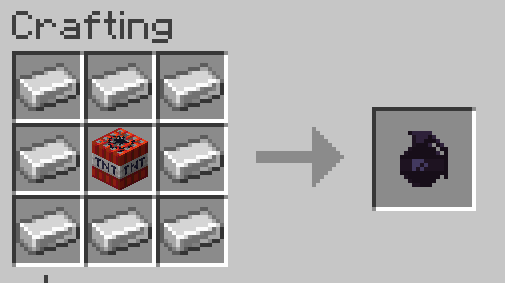
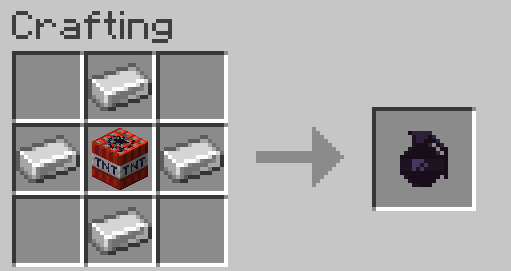
Added the smoke grenade - Changed recipe of normal grenade to require less iron - Limited grenade stack size to 16 - Made explosion slightly more powerful - Updated README.md

Changed region(s): [[0.0, 0.0295, 0.6832, 1.0], [0.7129, 0.3542, 0.9505, 0.797]]

diff --git a/src/main/java/xyz/telecter/justgrenades/entity/SmokeGrenadeEntity.java b/src/main/java/xyz/telecter/justgrenades/entity/SmokeGrenadeEntity.java
@@ -1,0 +1,70 @@
+package xyz.telecter.justgrenades.entity;
+
+import net.minecraft.block.BlockState;
+import net.minecraft.entity.Entity;
+import net.minecraft.entity.EntityType;
+import net.minecraft.entity.LivingEntity;
+import net.minecraft.entity.effect.StatusEffectInstance;
+import net.minecraft.entity.effect.StatusEffects;
+import net.minecraft.entity.player.PlayerEntity;
+import net.minecraft.entity.projectile.thrown.ThrownItemEntity;
+import net.minecraft.item.Item;
+import net.minecraft.particle.ParticleTypes;
+import net.minecraft.server.world.ServerWorld;
+import net.minecraft.util.math.Box;
+import net.minecraft.world.World;
+import xyz.telecter.justgrenades.items.ModItems;
+
+import java.util.List;
+
+public class SmokeGrenadeEntity extends GrenadeEntity {
+
+    public SmokeGrenadeEntity(EntityType<? extends GrenadeEntity> entityType, World world) {
+        super(entityType, world);
+    }
+
+    @Override
+    protected Item getDefaultItem() {
+        return ModItems.SMOKE_GRENADE;
+    }
+
+
+    private double getParticleRange() {
+        return (-0.5 + (int)(Math.random() * ((0.5 + 0.5) + 1)));
+    }
+
+    @Override
+    protected void onBlockCollision(BlockState state) {
+        World world = this.getEntityWorld();
+        Box box = new Box(this.getBlockPos()).expand(5);
+        List<PlayerEntity> entities = world.getEntitiesByClass(PlayerEntity.class, box, LivingEntity::isAlive);
+
+        entities.forEach(player -> player.addStatusEffect(new StatusEffectInstance(StatusEffects.BLINDNESS, 5*20, 0, false, false, false)));
+
+        if (world instanceof ServerWorld serverWorld) {
+            double radius = 5;
+            double step = 0.5;
+
+            double cx = this.getX();
+            double cy = this.getY();
+            double cz = this.getZ();
+            for (double x = -radius; x <= radius; x += step) {
+                for (double y = 0; y <= radius; y += step) {
+                    for (double z = -radius; z <= radius; z += step) {
+                        if (x*x + y*y + z*z <= radius * radius) {
+                            serverWorld.spawnParticles(
+                                    ParticleTypes.CAMPFIRE_SIGNAL_SMOKE,
+                                    cx + x + getParticleRange(), cy + y + getParticleRange(), cz + z + getParticleRange(),
+                                    1,
+                                    0, 0, 0,
+                                    0
+                            );
+                        }
+                    }
+                }
+            }
+            this.kill(serverWorld);
+        }
+
+        }
+}

diff --git a/src/main/java/xyz/telecter/justgrenades/items/GrenadeItem.java b/src/main/java/xyz/telecter/justgrenades/items/GrenadeItem.java
@@ -1,21 +1,33 @@
 package xyz.telecter.justgrenades.items;
 
+import net.minecraft.entity.EntityType;
 import net.minecraft.entity.player.PlayerEntity;
+import net.minecraft.entity.projectile.thrown.ThrownItemEntity;
 import net.minecraft.item.Item;
 import net.minecraft.util.ActionResult;
 import net.minecraft.util.Hand;
 import net.minecraft.world.World;
 import xyz.telecter.justgrenades.entity.GrenadeEntity;
 import xyz.telecter.justgrenades.entity.ModEntityType;
+import xyz.telecter.justgrenades.entity.SmokeGrenadeEntity;
 
 public class GrenadeItem extends Item {
-    public GrenadeItem(Settings settings) {
-        super(settings);
+    private final EntityType<? extends GrenadeEntity> entityType;
 
+    public GrenadeItem(EntityType<? extends GrenadeEntity> entityType, Settings settings) {
+        super(settings);
+        this.entityType = entityType;
     }
     @Override
     public ActionResult use(World world, PlayerEntity player, Hand hand) {
-        GrenadeEntity grenade = new GrenadeEntity(ModEntityType.GRENADE, world);
+        ThrownItemEntity grenade;
+
+        if (entityType.equals(ModEntityType.GRENADE)) {
+            grenade = new GrenadeEntity(ModEntityType.GRENADE, world);
+        } else {
+            grenade = new SmokeGrenadeEntity(ModEntityType.SMOKE_GRENADE, world);
+        }
+
         grenade.setPosition(player.getEyePos());
         grenade.setVelocity(player, player.getPitch(), player.getYaw(), 0.0F, 1.0F, 0F);
         world.spawnEntity(grenade);

diff --git a/src/main/java/xyz/telecter/justgrenades/entity/ModEntityType.java b/src/main/java/xyz/telecter/justgrenades/entity/ModEntityType.java
@@ -17,10 +17,17 @@ public class ModEntityType {
                         Registries.ENTITY_TYPE,
                         Identifier.of(JustGrenades.MOD_ID, "grenade"),
                         EntityType.Builder.create(GrenadeEntity::new, SpawnGroup.MISC)
-                                        .dimensions(0.25f, 0.25f) // dimensions in Minecraft units of the projectile
+                                        .dimensions(0.25f, 0.25f)
                                         .maxTrackingRange(4)
-                                        // necessary for all thrown projectiles (as it prevents it from breaking, lol)
                                         .build(RegistryKey.of(RegistryKeys.ENTITY_TYPE,
                                                         Identifier.of(JustGrenades.MOD_ID, "grenade"))));
+    public static final EntityType<SmokeGrenadeEntity> SMOKE_GRENADE = Registry.register(
+            Registries.ENTITY_TYPE,
+            Identifier.of(JustGrenades.MOD_ID, "smoke_grenade"),
+            EntityType.Builder.create(SmokeGrenadeEntity::new, SpawnGroup.MISC)
+                    .dimensions(0.25f, 0.25f)
+                    .maxTrackingRange(4)
+                    .build(RegistryKey.of(RegistryKeys.ENTITY_TYPE,
+                            Identifier.of(JustGrenades.MOD_ID, "smoke_grenade"))));
 
 }

diff --git a/src/main/java/xyz/telecter/justgrenades/items/ModItems.java b/src/main/java/xyz/telecter/justgrenades/items/ModItems.java
@@ -9,6 +9,7 @@ import net.minecraft.registry.RegistryKey;
 import net.minecraft.registry.RegistryKeys;
 import net.minecraft.util.Identifier;
 import xyz.telecter.justgrenades.JustGrenades;
+import xyz.telecter.justgrenades.entity.ModEntityType;
 
 import java.util.function.Function;
 
@@ -23,11 +24,14 @@ public class ModItems {
         Item item = factory.apply(settings.registryKey(itemKey));
         Registry.register(Registries.ITEM, itemKey, item);
         return item;
-
-
     }
 
-    public static final Item GRENADE = register("grenade", GrenadeItem::new, new Item.Settings()
+    public static final Item GRENADE = register("grenade", (settings) -> new GrenadeItem(ModEntityType.GRENADE, settings), new Item.Settings()
             .useCooldown(2)
+            .maxCount(16)
         );
+    public static final Item SMOKE_GRENADE = register("smoke_grenade", (settings) -> new GrenadeItem(ModEntityType.SMOKE_GRENADE, settings), new Item.Settings()
+            .useCooldown(2)
+            .maxCount(16)
+    );
 }

diff --git a/src/main/java/xyz/telecter/justgrenades/entity/GrenadeEntity.java b/src/main/java/xyz/telecter/justgrenades/entity/GrenadeEntity.java
@@ -21,12 +21,10 @@ public class GrenadeEntity extends ThrownItemEntity {
 
     @Override
     protected void onBlockCollision(BlockState state) {
-        super.onBlockCollision(state);
-        if (this.getWorld() instanceof ServerWorld serverWorld) {
-            serverWorld.createExplosion(this, this.getX(), this.getY(), this.getZ(), 3f, true,
+        if (this.getEntityWorld() instanceof ServerWorld serverWorld) {
+            serverWorld.createExplosion(this, this.getX(), this.getY()+1, this.getZ(), 3f, false,
                     World.ExplosionSourceType.TNT);
             this.kill(serverWorld);
-
         }
     }
 }

diff --git a/src/client/java/xyz/telecter/justgrenades/JustGrenadesClient.java b/src/client/java/xyz/telecter/justgrenades/JustGrenadesClient.java
@@ -10,5 +10,7 @@ public class JustGrenadesClient implements ClientModInitializer {
 	public void onInitializeClient() {
 		EntityRendererRegistry.register(
 				ModEntityType.GRENADE, FlyingItemEntityRenderer::new);
+        EntityRendererRegistry.register(
+                ModEntityType.SMOKE_GRENADE, FlyingItemEntityRenderer::new);
 	}
 }

diff --git a/README.md b/README.md
@@ -2,8 +2,14 @@
 
 A tiny, but explosive, Minecraft mod.
 
-This mod adds a craftable grenade that creates a sizeable explosion when thrown.
+This mod adds a few types of craftable grenades to Minecraft.
 
-![image](recipe.png)
+### Normal Grenade
+Creates an sizeable explosion wherever it lands.
+![recipe](recipe.png)
 
-Textures: https://mtk.itch.io/grenades-16x16
+### Smoke Grenade
+Creates a cloud of smoke and temporarily blinds anyone in the vicinity of wherever it lands.
+![recipe](recipe_smoke.png)
+
+**Textures:** https://mtk.itch.io/grenades-16x16
